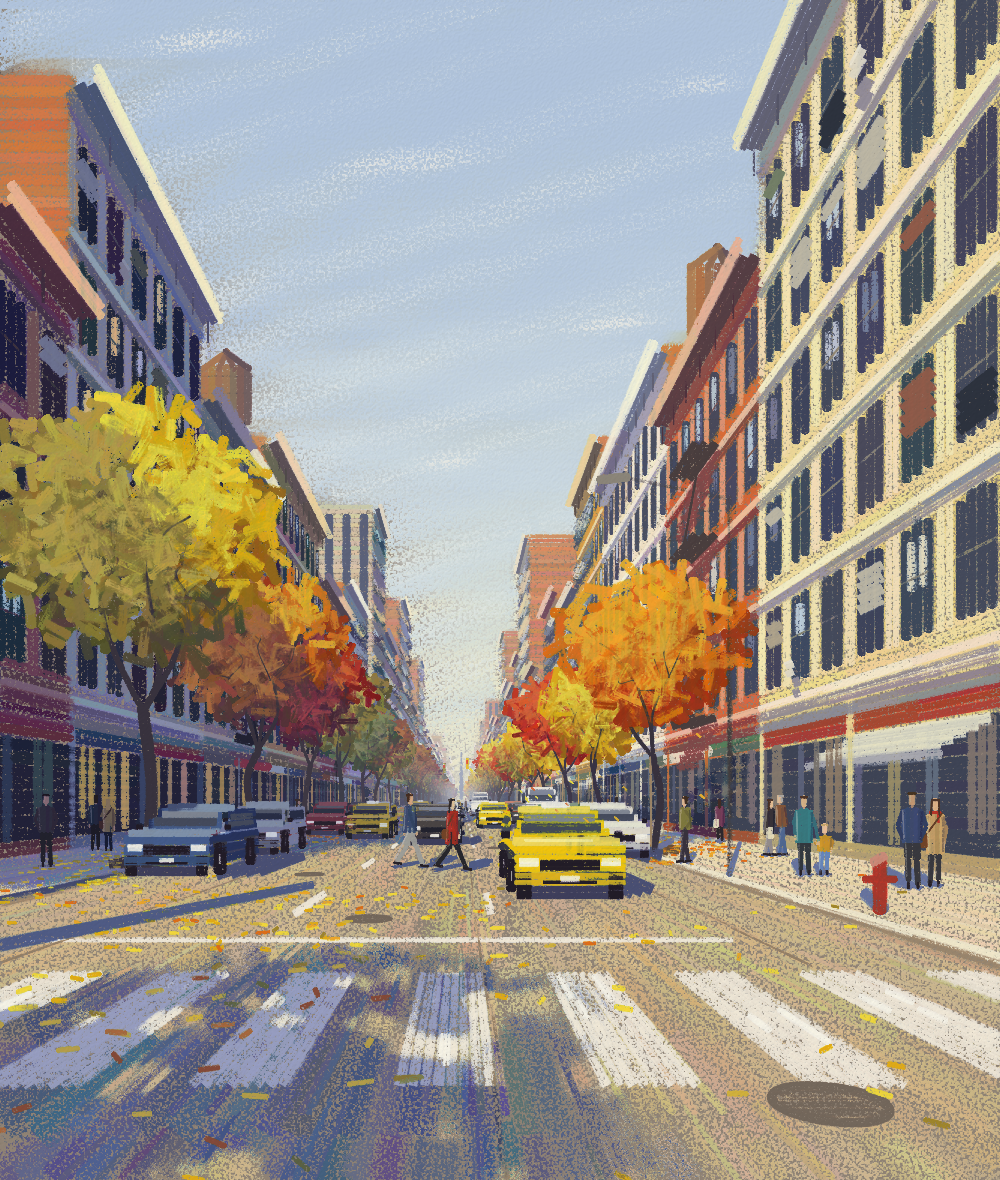
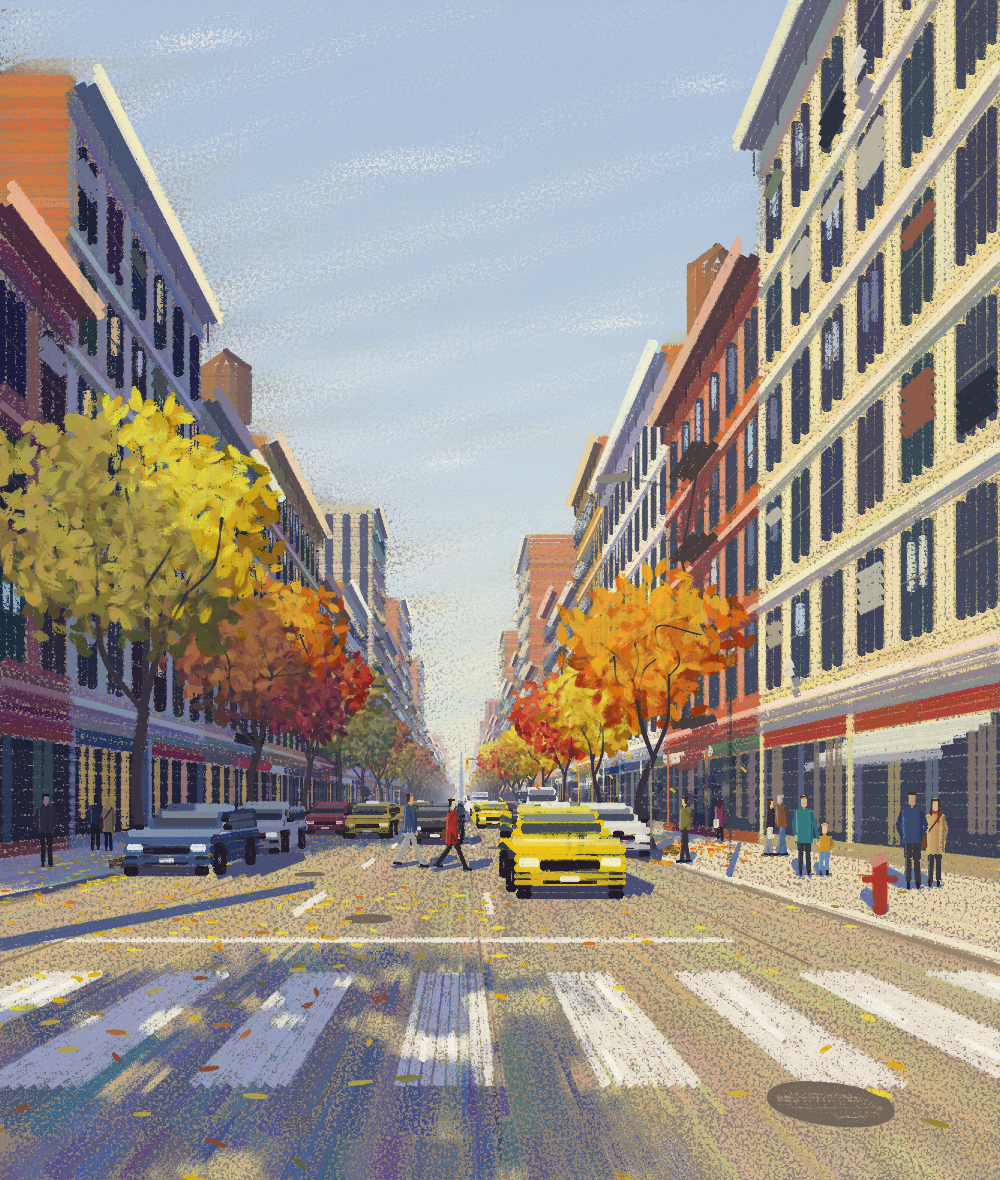
Broadway and deco retuned for strokes that are full to their ends
Broadway's leaves are shaped by profiles: a dab of foliage swells from
nothing where the stick lands to its middle and back, in pressure and
width, and a fallen leaf narrows toward its tips, so the trees are soft
and painterly again. A car's pieces end round inside their ends instead of
square. Deco stops a stroke square where the edge of a face cuts it short,
so its round end no longer greys the lit face beside it.

Claude-Session: https://claude.ai/code/session_01EHReoiZM458FQgDCGHibf5

diff --git a/examples/broadway.py b/examples/broadway.py
@@ -954,6 +954,25 @@ def reaches(lo: float, hi: float, rng: np.random.Generator) -> list[tuple]:
     return list(pairwise((lo * (hi / lo) ** steps).tolist()))
 
 
+def swell(u):
+    """0 at either end of a stroke (u 0 and 1), 1 in its middle."""
+    return np.sin(np.pi * np.clip(u, 0.0, 1.0))
+
+
+def leafy(firm: float, wide: float):
+    """The pressure and the width along a dab ``wide`` pixels across at
+    its widest, as functions of u: a leaf, from nothing to its middle and
+    back."""
+
+    def press(u):
+        return firm * swell(u) ** 0.35
+
+    def width(u):
+        return wide * (0.5 + 0.5 * swell(u))
+
+    return press, width
+
+
 def sampler(image: np.ndarray, firm: float, left: int = 0, top: int = 0):
     """The pressure a shading takes from ``image``, a patch of the sheet
     whose corner is at (``left``, ``top``): ``firm`` times its value where
@@ -981,6 +1000,9 @@ class Easel:
         #: trees as they were)
         self.crowd = np.random.default_rng(SEED + 1)
         self.tenants = np.random.default_rng(SEED + 2)
+        #: (a car is drawn softly: its pieces end round, inside their ends,
+        #: not cut square as a building's are)
+        self.softly = False
         self.sheet = Sheet(WIDTH, HEIGHT, paper=PAPER, seed=SEED)
         self.buildings = street(self.rng)
         self.trees = avenue(self.rng)
@@ -1039,6 +1061,7 @@ class Easel:
         worn: float = 0.0,
         square: bool = False,
         inside: bool = False,
+        leaf: bool = False,
     ) -> None:
         """One straight stroke between two points of the street, ``width``
         pixels wide halfway along it (as the eye sees it: narrower where it
@@ -1049,7 +1072,8 @@ class Easel:
         takes its light from the scene; without, it is a thing standing in
         the street, lit unless a building shades it. ``worn`` breaks it up;
         ``square`` cuts it square at the two points; ``inside`` keeps its
-        round ends inside them."""
+        round ends inside them; ``leaf`` draws it as a
+        fallen leaf, narrower toward its tips."""
         ends = np.array(ends, dtype=np.float64)
         long = float(np.hypot(*np.diff(project(ends), axis=0)[0]))
         inset = min(0.5 * width / max(long, 1e-6), 0.4) if inside else 0.0
@@ -1064,6 +1088,9 @@ class Easel:
         landing = 0.15 if square or inside else 0.4
         ease = np.sqrt(np.sin(np.pi * np.clip(u, 0.05, 0.95)))
         press = firm * (1.0 - landing * (1.0 - ease))
+        if leaf:
+            # (a fleck: narrower toward its tips)
+            widths = widths * (0.7 + 0.3 * swell(u))
         if worn:
             press = press * (1.0 - worn * self.rng.random(len(u)))
         if face is not None:
@@ -1083,14 +1110,16 @@ class Easel:
     def panel(self, low, high, colours, firm: float, face=None) -> None:
         """A flat piece of something between two of its edges, each given by
         its two ends: strokes that run with the edges and stop square at the
-        sides, as many side by side as the piece asks for."""
+        sides (softly, for a car), as many side by side as the piece asks for."""
         low = np.asarray(low, dtype=np.float64)
         high = np.asarray(high, dtype=np.float64)
         tall = float(np.hypot(*(project(high) - project(low)).T).mean())
         rows = max(math.ceil(tall / STICK), 1)
         for r in range(rows):
             ends = low + (r + 0.5) / rows * (high - low)
-            self.rail(ends, colours, firm, 1.12 * tall / rows, face, square=True)
+            width = 1.12 * tall / rows
+            soft = self.softly
+            self.rail(ends, colours, firm, width, face, square=not soft, inside=soft)
 
     def slab(self, x, y, z: float, colours, firm: float) -> None:
         """An upright piece of something that faces the eye, ``z`` away:
@@ -1778,7 +1807,7 @@ class Ground(Fronts):
             width = float(np.clip(0.055 * rise(spot[2]), THIN, 7.0))
             firm = float(self.rng.uniform(0.5, 0.8))
             ends = (spot - reach, spot + reach)
-            self.rail(ends, distant(colours, spot[2]), firm, width, GROUND)
+            self.rail(ends, distant(colours, spot[2]), firm, width, GROUND, leaf=True)
 
 
 class Life(Ground):
@@ -1837,7 +1866,7 @@ class Life(Ground):
         dab = float(np.clip(0.42 * size, 3.0, STICK))
         spots, tone = [], []
         for x, y, z, radius in masses:
-            count = int(np.clip(0.95 * math.pi * (radius * size / dab) ** 2, 3, 240))
+            count = int(np.clip(1.25 * math.pi * (radius * size / dab) ** 2, 3, 320))
             facing = rng.normal(0.0, 1.0, (count, 3))
             facing /= np.linalg.norm(facing, axis=1)[:, None]
             facing[:, 2] = -np.abs(facing[:, 2])  # (the side the eye sees)
@@ -1855,7 +1884,10 @@ class Life(Ground):
             reach = 0.5 * dab * rng.uniform(0.6, 1.6)
             reach = reach * np.array([math.cos(turn), math.sin(turn)])
             path = [places[k] - reach, places[k] + reach]
-            self.sheet.stroke(path, stick(colour), float(rng.uniform(0.45, 0.8)), dab)
+            firm = float(rng.uniform(0.5, 0.85))
+            # (a dab swells from nothing where the stick lands and lifts)
+            press, shape = leafy(firm, dab)
+            self.sheet.stroke(path, stick(colour), press, shape)
 
     def car(self, car: Car) -> None:
         """A car, nose toward the eye: its shadow, the flank the eye sees,
@@ -1863,12 +1895,14 @@ class Life(Ground):
         pair = distant(PAINTS[car.paint], car.z)
         sides = (car.x - 0.5 * car.wide, car.x + 0.5 * car.wide)
         self.car_shadow(car, sides)
+        self.softly = True
         if car.x > EYE[0]:
             self.flank(car, sides[0], pair)
         else:  # (its other flank is turned from the sun)
             self.flank(car, sides[1], (pair[1], pair[1]))
         self.nose(car, pair, sides)
         self.cabin(car, pair, sides)
+        self.softly = False
 
     def car_shadow(self, car: Car, sides) -> None:
         """The shadow a car lays on the sunlit roadway, beside it and beyond

diff --git a/examples/deco.py b/examples/deco.py
@@ -531,7 +531,9 @@ class Scene:
     ):
         """One stroke from ``start`` to ``end`` on the sheet, pressed as
         firmly as ``touch`` says times what ``image`` holds along it, and
-        lifted where that is nothing; ``ends`` as for :meth:`Sheet.stroke`."""
+        lifted where that is nothing; ``ends`` as for :meth:`Sheet.stroke`.
+        Where ``image`` cuts it short (the edge of a face), it stops square,
+        so that its round end does not lie over the face next to it."""
         start, end = np.asarray(start, dtype=float), np.asarray(end, dtype=float)
         rubs = isinstance(touch.what, tools.Tool)
         for a, b in runs(image, start, end):
@@ -541,8 +543,12 @@ class Scene:
             path = wavering(a, b, self.rng, wobble)
             if isinstance(touch.what, tools.Tool):
                 self.sheet.smudge(path, touch.what, bearing, touch.width)
-            else:
-                self.sheet.stroke(path, touch.what, bearing, touch.width, ends=ends)
+                continue
+            cut = (
+                "flat" if np.hypot(*(a - start)) > 0.5 else ends,
+                "flat" if np.hypot(*(b - end)) > 0.5 else ends,
+            )
+            self.sheet.stroke(path, touch.what, bearing, touch.width, ends=cut)
 
     def strokes(self, lines, touch: Touch, image, reach: float, wobble: float):
         """A stroke along each of ``lines``, in pieces no longer than about

diff --git a/CHANGELOG.md b/CHANGELOG.md
@@ -48,12 +48,18 @@ and the project adheres to [Semantic Versioning](https://semver.org/).
   strokes that recede and taper, and the side of a stick of charcoal and of
   pastel.
 - Every image is regenerated. Shadings end crisply at the edge of their
-  area. `broadway.py` cuts its fronts, awnings, cars and the bars of the
-  crossing square at their ends instead of insetting round ends by half a
-  width, narrows every stroke that runs into the distance as it goes,
-  draws its figures in one layer (two, laid opposite ways with a fix
-  between, made up for the weak ends of short strokes) and lays fewer and
-  lighter leaves, each now a whole dab. `deco.py` stops its windows square.
+  area. `broadway.py` cuts its fronts, awnings and the bars of the crossing
+  square at their ends instead of insetting round ends by half a width
+  (a car's pieces keep round ends inside them, so that it does not come out
+  in blocks), narrows every stroke that runs into the distance as it goes,
+  and draws its figures in one layer (two, laid opposite ways with a fix
+  between, made up for the weak ends of short strokes). Its leaves are
+  shaped by profiles: each dab of foliage swells from nothing where the
+  stick lands to its middle and back (pressure and width), and a fallen
+  leaf narrows toward its tips, so that the trees stay soft now that a
+  stroke is full to its ends. `deco.py` stops its windows square, and a
+  stroke that the edge of a face cuts short stops square at the edge, so
+  that its round end no longer greys the lit face next to it.
   `stilllife.png` (ballpoint) and `papers.png` are unchanged.
 
 ### Changed
